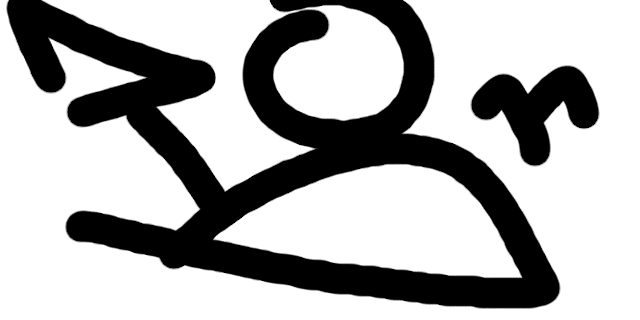
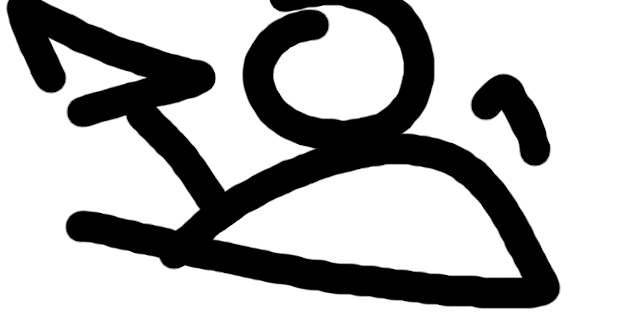
New merchant, more interesting, more random, art liked to currentZone

Changed region(s): [[0.8125, 0.1875, 0.9375, 0.4375]]

diff --git a/src/app/components/events/shop/shop.component.html b/src/app/components/events/shop/shop.component.html
@@ -1,19 +1,23 @@
-<table>
-    <tr>
-        <th colspan="5">Acheter</th>
-        <th colspan="5">Vendre</th>
-    </tr>
-    <tr *ngFor="let line of [].constructor(1); let i = index">
-        <td *ngIf="shopSell[i]">{{ shopSell[i].quantityGiven }}</td>
-        <td *ngIf="shopSell[i]">{{ shopSell[i].typeGiven }}</td>
-        <td><button (click)="trade('buy', i)">>>></button></td>
-        <td *ngIf="shopSell[i]">{{ shopSell[i].quantityWanted }}</td>
-        <td *ngIf="shopSell[i]">{{ shopSell[i].typeWanted }}</td>        
-
-        <td *ngIf="shopBuy[i]">{{ shopBuy[i].quantityWanted }}</td>
-        <td *ngIf="shopBuy[i]">{{ shopBuy[i].typeWanted }}</td>
-        <td><button (click)="trade('sell', i)">>>></button></td>
-        <td *ngIf="shopBuy[i]">{{ shopBuy[i].quantityGiven }}</td>
-        <td *ngIf="shopBuy[i]">{{ shopBuy[i].typeGiven }}</td>
-    </tr>
-</table>
+<div>
+    <img [src]="'../../../../assets/img/encounters/shopkeeper/' + player.currentZone + '.png'">
+    <table>
+        <tr>
+            <th colspan="5">Acheter</th>
+            <th colspan="5">Vendre</th>
+        </tr>
+        <tr *ngFor="let line of [].constructor(2); let i = index">
+            <td *ngIf="shopSell[i]">{{ shopSell[i].quantityWanted }}</td>
+            <td *ngIf="shopSell[i]">{{ shopSell[i].typeWanted }}</td>   
+            <td><button (click)="trade('buy', i)">>>></button></td>
+            <td *ngIf="shopSell[i]">{{ shopSell[i].quantityGiven }}</td>
+            <td *ngIf="shopSell[i]">{{ shopSell[i].typeGiven }}</td>     
+    
+            <td *ngIf="shopBuy[i]">{{ shopBuy[i].quantityWanted }}</td>
+            <td *ngIf="shopBuy[i]">{{ shopBuy[i].typeWanted }}</td>
+            <td><button (click)="trade('sell', i)">>>></button></td>
+            <td *ngIf="shopBuy[i]">{{ shopBuy[i].quantityGiven }}</td>
+            <td *ngIf="shopBuy[i]">{{ shopBuy[i].typeGiven }}</td>
+        </tr>
+    </table>
+    <button (click)="next()">Poursuivre</button>
+</div>

diff --git a/src/app/pages/game/game.component.html b/src/app/pages/game/game.component.html
@@ -2,20 +2,19 @@
 
 <h1>{{ player.status }}</h1>
 
-<p>game works!</p>
-
-<button (click)="randomEvent()">Randomized {{ d100 }}</button>
+<button (click)="randomEvent()">Change event</button>
 
 <div *ngIf="player.status === 'encounter'">
-    <app-boss *ngIf="d100 <= 10"></app-boss>
-    <app-camp *ngIf="d100 > 10 && d100 <= 20"></app-camp>
-    <app-loot *ngIf="d100 > 20 && d100 <= 40"></app-loot>
-    <app-monster *ngIf="d100 > 40 && d100 <= 70"></app-monster>
-    <app-shop *ngIf="d100 > 70 && d100 <= 80" [player]="player"
-        (updatedPlayer)="updatedPlayerReceive($event)"></app-shop>
-    <app-trap *ngIf="d100 > 80"></app-trap>
-
-    <button (click)="next()">Next</button>
+    <app-boss *ngIf="d100 <= eventPercentageCut[0]"></app-boss>
+    <app-camp *ngIf="d100 > eventPercentageCut[0] && d100 <= eventPercentageCut[1]"></app-camp>
+    <app-loot *ngIf="d100 > eventPercentageCut[1] && d100 <= eventPercentageCut[2]"></app-loot>
+    <app-monster *ngIf="d100 > eventPercentageCut[2] && d100 <= eventPercentageCut[3]"></app-monster>
+    <app-shop *ngIf="d100 > eventPercentageCut[3] && d100 <= eventPercentageCut[4]"
+        [player]="player"
+        (updatedPlayer)="updatedPlayerReceive($event)"
+        (nextEvent)="next()"
+        ></app-shop>
+    <app-trap *ngIf="d100 > eventPercentageCut[4]"></app-trap>
 </div>
 
 <div *ngIf="player.status === 'door'">

diff --git a/src/app/components/events/shop/shop.component.ts b/src/app/components/events/shop/shop.component.ts
@@ -16,6 +16,9 @@ export class ShopComponent {
   @Output()
   updatedPlayer: EventEmitter<Player> = new EventEmitter;
 
+  @Output()
+  nextEvent: EventEmitter<void> = new EventEmitter;
+
   shopSell: ShopOffer[] = [];
   shopBuy: ShopOffer[] = [];
   
@@ -23,8 +26,16 @@ export class ShopComponent {
   
   ngOnInit(){
     this.httpClient.get("assets/json/shop-trades.json").subscribe((data: any) =>{
-      this.shopSell.push(data.sell[0]);
+      let randomTradeFirst = Math.floor(Math.random()*data.sell.length);
+      let randomTradeSecond = Math.floor(Math.random()*data.sell.length);
+      while(randomTradeSecond === randomTradeFirst){
+        randomTradeSecond = Math.floor(Math.random()*data.sell.length);
+      }
+      this.shopSell.push(data.sell[randomTradeFirst]);
+      this.shopSell.push(data.sell[randomTradeSecond]);
       this.shopBuy.push(data.buy[0]);
+      this.shopBuy.push(data.buy[1]);
+
     })
   }
 
@@ -44,5 +55,9 @@ export class ShopComponent {
     }
     this.player[currentTrade.typeGiven] += currentTrade.quantityGiven;
     this.updatedPlayer.emit(this.player);
+  }
+
+  next(): void {
+    this.nextEvent.emit();
   }
 }

diff --git a/src/app/pages/game/game.component.ts b/src/app/pages/game/game.component.ts
@@ -13,6 +13,8 @@ export class GameComponent {
 
   d100: number = 0;
 
+  eventPercentageCut: number[] = [10,20,40,70,80];
+
   constructor(
     private playerService: PlayerService
   ){}
@@ -38,7 +40,7 @@ export class GameComponent {
     this.playerService._setPlayer$(player);
   }
 
-  mapDice(event: number) {
-    this.d100 = event
+  mapDice(event: number): void {
+    this.d100 = event;
   }
 }
